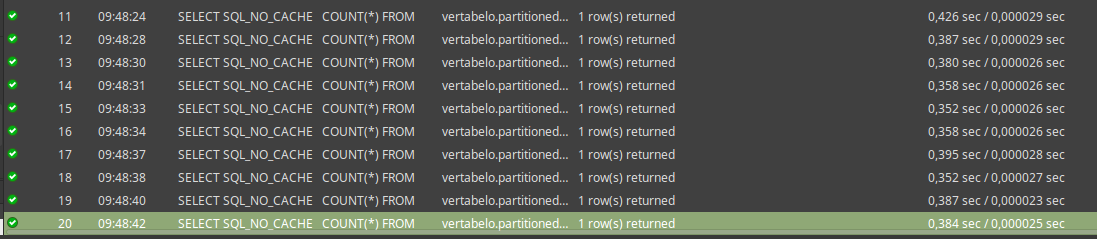
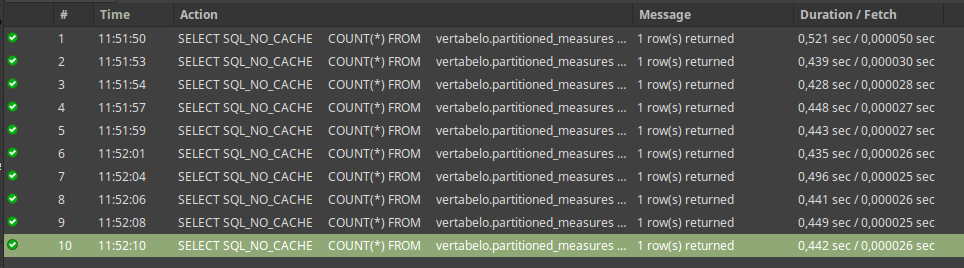
done

diff --git a/Tugas-2/README.md b/Tugas-2/README.md
@@ -1,4 +1,6 @@
+### Basis Data Terdistribusi
 # Implementasi Partisi Basis Data
+Oleh: **Hafara Firdausi (05111540000043)**
 
 ## Outline
 - [Implementasi Partisi Basis Data](#implementasi-partisi-basis-data)
@@ -19,7 +21,11 @@
         - [3.2 Cara Impor Dataset](#32-cara-impor-dataset)
         - [3.3 Benchmarking](#33-benchmarking)
             - [3.3.1 Select Queries Benchmark](#331-select-queries-benchmark)
+                - [Langkah-Langkah](#langkah-langkah)
+                - [Hasil](#hasil)
             - [3.3.2 Big Delete Benchmark](#332-big-delete-benchmark)
+                - [Langkah-Langkah](#langkah-langkah)
+                - [Hasil](#hasil)
         - [3.4 Kesimpulan](#34-kesimpulan)
     - [Referensi](#referensi)
 
@@ -37,15 +43,18 @@ Server yang digunakan memiliki deskripsi sebagai berikut :
 * Dataset yang digunakan adalah **Sakila Database**. Dapat diunduh di http://downloads.mysql.com/docs/sakila-db.zip 
 * Cara impor:
     1. Masuk ke dalam mysql.
+   
         ```bash
         mysql -u root -p
         ```
     2. Impor database dari skema yang telah diunduh.
         Format :
+
         ```mysql
         mysql> SOURCE /path/to/file;
         ```
         Penggunaan :
+        
         ```mysql
         mysql> SOURCE sakila-db/sakila-scheme.sql;
         mysql> SOURCE sakila-db/sakila-data.sql;
@@ -60,6 +69,7 @@ Server yang digunakan memiliki deskripsi sebagai berikut :
    
     Keterangan:
     * Jumlah baris data semua tabel pada Sakila Database dapat dicari dengan:
+  
         ```mysql
         SELECT TABLE_NAME, TABLE_ROWS FROM INFORMATION_SCHEMA.TABLES WHERE TABLE_SCHEMA = 'sakila' ORDER BY TABLE_ROWS DESC;
         ```
@@ -86,6 +96,7 @@ Server yang digunakan memiliki deskripsi sebagai berikut :
 ##### Tabel Payment
 * Jenis partisi yang digunakan pada tabel Payment adalah partisi **HASH** dengan parameter **payment_id**.
 * Jenis partisi **HASH** tidak memerlukan predikat/syarat karena memiliki perhitungan sendiri untuk menentukan letak penyimpanan data, yakni:
+  
     ```
     N = MOD(expr, num)
     ```
@@ -116,6 +127,7 @@ Server yang digunakan memiliki deskripsi sebagai berikut :
 #### 2.2.2 Implementasi Partisi
 Implementasi partisi dilakukan dengan mengubah script skema SQL yang sudah ada dan menjalankan ulang script SQL-nya.
 1. Menambah dan mengubah script SQL untuk membuat partisi tabel **Payment**.
+   
     ```mysql
     CREATE TABLE payment (
         payment_id SMALLINT UNSIGNED NOT NULL AUTO_INCREMENT,
@@ -141,6 +153,7 @@ Implementasi partisi dilakukan dengan mengubah script skema SQL yang sudah ada d
     * Setelah meng-comment, jangan lupa menghapus tanda koma pada row sebelumnya.
 
 2. Menambah dan mengubah script SQL untuk membuat partisi tabel **Rental**.
+   
     ```mysql
     CREATE TABLE rental (
         rental_id INT NOT NULL AUTO_INCREMENT,
@@ -174,6 +187,7 @@ Implementasi partisi dilakukan dengan mengubah script skema SQL yang sudah ada d
     * Fungsi partisi untuk RANGE berdasarkan tanggal menggunakan perintah `DAY()`;
 
 3. Menjalankan ulang script skema SQL yang telah diubah dan diatur konfigurasi partisinya. 
+   
     ```bash
     mysql -u root -p
     ```
@@ -197,6 +211,7 @@ Implementasi partisi dilakukan dengan mengubah script skema SQL yang sudah ada d
     Jika ada error, maka dicari tahu terlebih dahulu letak errornya dan diselesaikan.
 
 4. Cek partisi yang sudah dibuat dengan command `EXPLAIN SELECT * FROM nama_tabel\G`
+   
     ![Hasil Partisi](/Tugas-2/img/4.png)
 
 ### 2.3 Benchmarking
@@ -278,6 +293,7 @@ Untuk mengecek apakah proses partisi telah benar-benar berhasil, maka dilakukan 
 
 2. Melakukan pengujian menggunakan query SELECT dengan kasus untuk mencari data dengan **payment_id = 43**, dimana `43 mod 6 = 1` sehingga data seharusnya disimpan pada partisi **_p<sub>1</sub>_**.
    * Menjalankan query SELECT data dengan payment_id = 43 dari partisi yang benar.
+  
         ```mysql
         SELECT * FROM payment PARTITION(p1) WHERE payment_id = 43;
         ```
@@ -286,6 +302,7 @@ Untuk mengecek apakah proses partisi telah benar-benar berhasil, maka dilakukan 
         ![Hasil Pengujian pada Partisi yang Benar](/Tugas-2/img/5.png "Hasil Pengujian pada Partisi yang Benar")
 
     * Menjalankan query SELECT data dengan payment_id = 43 dari partisi yang salah.
+  
         ```mysql
         SELECT * FROM payment PARTITION(p0) WHERE payment_id = 43;
         SELECT * FROM payment PARTITION(p2) WHERE payment_id = 43;
@@ -350,6 +367,7 @@ Untuk mengecek apakah proses partisi telah benar-benar berhasil, maka dilakukan 
     ````
 2. Melakukan pengujian menggunakan query SELECT dengan kasus untuk mencari data dengan **rental_date tanggal 19**, dimana tanggal 19 seharusnya tersimpan pada partisi `day_from_11_to_20`.
    * Menjalankan query SELECT data dengan rental_date = 19 dari partisi yang benar.
+  
         ```mysql
         -- SELECT berdasarkan tanggal saja
         SELECT * FROM rental PARTITION(day_from_11_to_20) WHERE DAY(rental_date) = 19;
@@ -363,6 +381,7 @@ Untuk mengecek apakah proses partisi telah benar-benar berhasil, maka dilakukan 
         ![Hasil Pengujian pada Partisi yang Benar](/Tugas-2/img/8.png "Hasil Pengujian pada Partisi yang Benar")
 
     * Menjalankan query SELECT data dengan rental_date = 19 dari partisi yang salah.
+  
         ```mysql
         SELECT * FROM rental PARTITION(day_from_1_to_10) WHERE DAY(rental_date) = 19;
         SELECT * FROM rental PARTITION(day_from_21_and_up) WHERE DAY(rental_date) = 19;
@@ -381,10 +400,10 @@ Untuk mengecek apakah proses partisi telah benar-benar berhasil, maka dilakukan 
 
 * Masing-masing tabel memiliki jumlah baris data sebagai berikut:
   
-    No | Nama Tabel | Jumlah Data
-    --- | --- | ---
-    1 | measures | 1846124
-    2 | partitioned_measures | 1846124
+    | No | Nama Tabel | Jumlah Data |
+    | --- | --- | --- |
+    | 1 | measures | 1846124 |
+    | 2 | partitioned_measures | 1846124 |
 
     Keterangan:
     * Tabel  **partitioned_measures** adalah bentuk partisi dari tabel **measures**, sehingga keduanya memiliki jumlah data yang sama. 
@@ -413,9 +432,22 @@ Untuk mengecek apakah proses partisi telah benar-benar berhasil, maka dilakukan 
     mysql -u root -p -D vertabelo < sample_1_8_M_rows_data.sql
     ```
 ### 3.3 Benchmarking
-Ada 2 jenis benchmark, yakni SELECT queries benchmark dan BIG DELETE benchmark, yang dilakukan sebanyak 10 kali pada masing-masing tabel. Kemudian kecepatan query-nya dicatat dan dirata-rata.
+Ada 2 jenis benchmark, yakni SELECT Queries Benchmark dan Big Delete Benchmark, yang dilakukan sebanyak 10 kali pada masing-masing tabel, kemudian kecepatan query-nya dicatat dan dirata-rata.
+
 #### 3.3.1 Select Queries Benchmark
-* SELECT queries pada tabel **measures** (tanpa partisi)
+##### Langkah-Langkah
+1. Sebelum melakukan select queries benchmark, **index** pada kedua tabel harus dihapus terlebih dahulu supaya terlihat performa asli query.
+   
+    ```mysql
+    ALTER TABLE vertabelo.measures 
+    DROP INDEX measure_timestamp;
+    
+    ALTER TABLE vertabelo.partitioned_measures 
+    DROP INDEX measure_timestamp;
+    ```
+
+2. SELECT query pada tabel **measures** (tanpa partisi)
+   
     ```mysql
     SELECT SQL_NO_CACHE
         COUNT(*)
@@ -425,7 +457,8 @@ Ada 2 jenis benchmark, yakni SELECT queries benchmark dan BIG DELETE benchmark, 
         measure_timestamp >= '2016-01-01'
             AND DAYOFWEEK(measure_timestamp) = 1;
     ```
-* SELECT queries pada tabel **measures_partitioned**
+3. SELECT query pada tabel **partitioned_measures**
+   
     ```mysql
     SELECT SQL_NO_CACHE
         COUNT(*)
@@ -435,37 +468,82 @@ Ada 2 jenis benchmark, yakni SELECT queries benchmark dan BIG DELETE benchmark, 
         measure_timestamp >= '2016-01-01'
             AND DAYOFWEEK(measure_timestamp) = 1;
     ```
-* Hasil :
-    | No. Pengujian | Tabel Tanpa Partisi (detik) | Tabel Dengan Partisi (detik) |
-    --- | --- | ---
-    1 |
-    2 |
-    3 |
-    4 |
-    5 |
-    6 |
-    7 |
-    8 |
-    9 |
-    10 |
+##### Hasil
+
+| No. Pengujian | Tabel Tanpa Partisi (detik) | Tabel Dengan Partisi (detik) |
+| --- | --- | --- |
+| 1 | 0.795 | 0.521 |
+| 2 | 0.877 | 0.439 |
+| 3 | 0.865 | 0.428 |
+| 4 | 0.885 | 0.448 |
+| 5 | 1.020 | 0.443 |
+| 6 | 0.871 | 0.435 |
+| 7 | 0.878 | 0.496 |
+| 8 | 0.812 | 0.441 |
+| 9 | 0.879 | 0.449 |
+| 10 | 0.812 | 0.442 |
+| **Rata-Rata** | **0.8694** | **0.4542** |
    
+* Hasil select query terhadap tabel **measures** (tanpa partisi)
+
+    ![Hasil Select Query Tabel Measures](/Tugas-2/img/10.png "Hasil Select Query Tabel Measures")
+
+* Hasil select query terhadap tabel **partitioned_measures**
+
+    ![Hasil Select Query Tabel Partitioned Measures](/Tugas-2/img/11.png "Hasil Select Query Tabel Partitioned Measures")
+
 #### 3.3.2 Big Delete Benchmark
-* SELECT queries pada tabel **measures** (tanpa partisi)
+##### Langkah-Langkah
+1. Sebelum melakukan big delete benchmark, **index** pada `measure_timestamp` harus ditambahkan kembali terlebih dahulu.
+   
     ```mysql
     ALTER TABLE vertabelo.measures
     ADD INDEX index1 (measure_timestamp ASC);
+
+    ALTER TABLE vertabelo.partitioned_measures
+    ADD INDEX index1 (measure_timestamp ASC);
     ```
-* SELECT queries pada tabel **partitioned_measures**
+2. Big delete pada tabel **measures** (tanpa partisi)
+   
     ```mysql
-    SELECT SQL_NO_CACHE
-        COUNT(*)
-    FROM
-        vertabelo.partitioned_measures
-    WHERE
-        measure_timestamp >= '2016-01-01'
-            AND DAYOFWEEK(measure_timestamp) = 1;
+    DELETE
+    FROM vertabelo.measures
+    WHERE measure_timestamp < '2015-01-01';
     ```
+3. Big delete pada tabel **partitioned_measures**
+   
+    ```mysql
+    ALTER TABLE vertabelo.partitioned_measures 
+    DROP PARTITION to_delete_logs;
+    ```
+
+##### Hasil
+
+| No. Pengujian | Tabel Tanpa Partisi (detik) | Tabel Dengan Partisi (detik) |
+| --- | --- | --- |
+| 1 | 1.675 | 0.528 |
+| 2 | 2.225 | 0.448 |
+| 3 | 1.446 | 0.332 |
+| 4 | 1.274 | 0.404 |
+| 5 | 1.159 | 0.501 |
+| 6 | 1.481 | 0.334 |
+| 7 | 1.358 | 0.325 |
+| 8 | 1.606 | 0.369 |
+| 9 | 1.992 | 0.350 |
+| 10 | 1.179 | 0.320 |
+| **Rata-Rata** | **1.5395** | **0.3911** |
+
+* Hasil big delete terhadap tabel **measures** dan **partitioned_measures** (bergantian/berselingan)
+
+    ![Hasil Big Delete](/Tugas-2/img/12.png "Hasil Big Delete")
+
+    ![Hasil Big Delete](/Tugas-2/img/13.png "Hasil Big Delete")
+
+
 ### 3.4 Kesimpulan
+Dari hasil benchmarking di atas, dapat disimpulkan bahwa:
+* **Kecepatan select query pada tabel yang dipartisi hampir dua kali lebih cepat** dibandingkan dengan kecepatan select query pada tabel yang tidak dipartisi.
+* **Proses menghapus data hampir empat kali lebih cepat** dilakukan pada tabel yang dipartisi karena hanya perlu menghapus partisi tertentu yang berisi data-data yang ingin dihapus. Sedangkan pada tabel yang tidak dipartisi, proses penghapusan data lebih lama karena harus mencari dan memilah terlebih dahulu data yang ingin dihapus.
 
 ## Referensi
 * Claria, Francisco, (10 Februari 2017), Everything You Need to Know About MySQL Partitions, [online], (http://www.vertabelo.com/blog/technical-articles/everything-you-need-to-know-about-mysql-partitions, diakses tanggal 25 September 2018)
